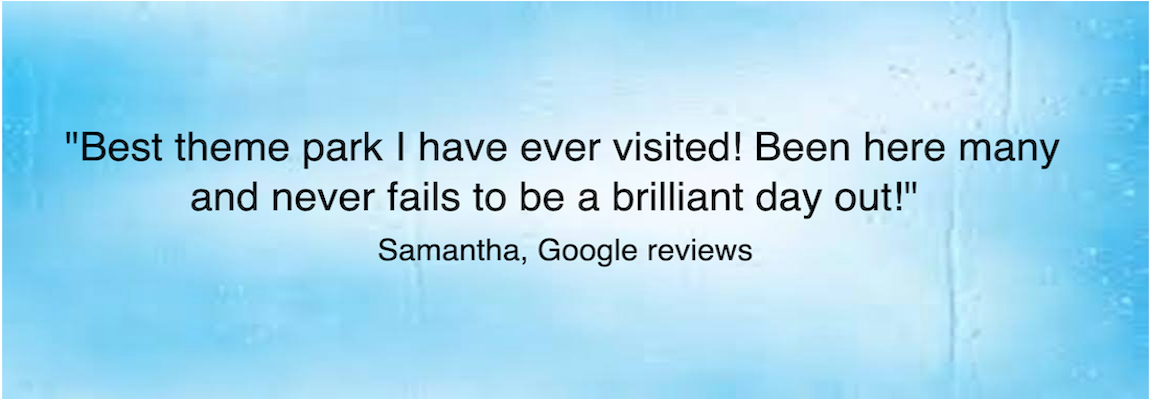
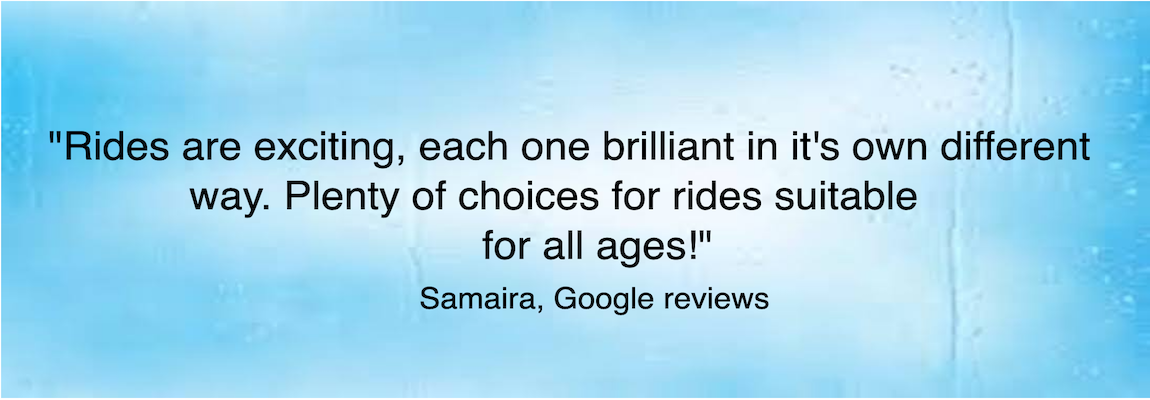
Modiefied the review section and added some new image

diff --git a/styles/supporting_features.css b/styles/supporting_features.css
@@ -134,19 +134,28 @@ main{
     height: 400px;
     background: url("../img/1st_review.png");
     margin: 5% auto;
-    animation: slide 20s linear infinite;
+    animation: slide 30s linear infinite;
     box-shadow: 0 5px 15px 0 rgba(0,0,0,.6);
 }
 
 @keyframes slide {
-    25%{
+    15%{
         background: url("../img/1st_review.png");
     }
-    50%{
+    30%{
+        background: url("../img/2nd_bg.jpg");
+    }
+    45%{
         background: url("../img/2nd_review.png");
+    }
+    60%{
+        background: url("../img/3rd_bg.jpeg");
     }
     75%{
         background: url("../img/3rd_review.png");
+    }
+    85%{
+        background: url("../img/4th_bg.jpeg");
     }
     100%{
         background: url("../img/4th_review.png");
@@ -158,7 +167,7 @@ main{
 /*the full section of newsletter*/
 .newsletter_wrapper {
     /*adding background image and positioning it*/
-    background: url("../img/bg.jpg") center center;
+    background: url("../img/2nd_bg.jpg") center center;
     background-size: cover;
     /*1 vh = 1% of the viewport.*/
     height: 30vh;
@@ -174,7 +183,7 @@ main{
 /*the newsletter box*/
 .newsletter_box{
     padding: 20px 6px;
-    color: #fff;
+    color: #000;
 }
 
 /*newsletter box's heading*/
